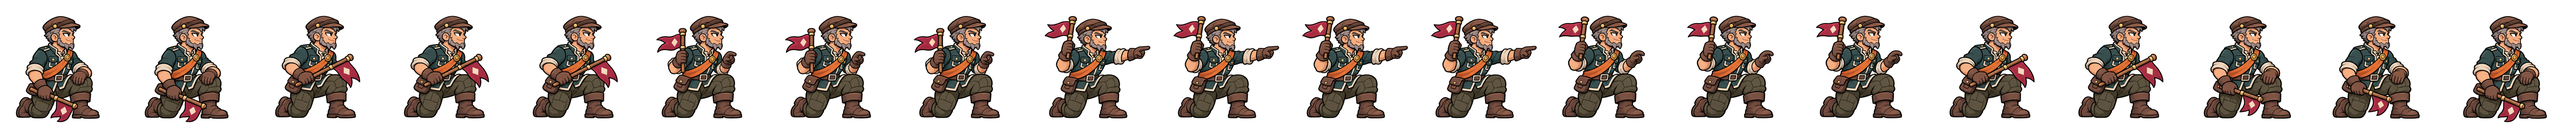
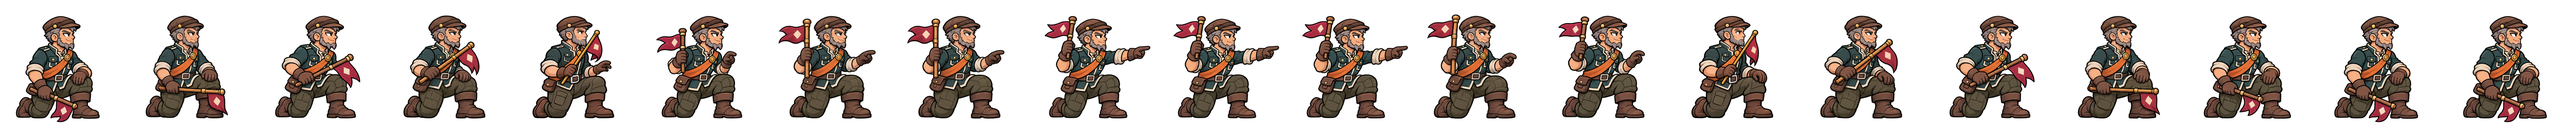
Add eight in-betweens to the observer flag signal

diff --git a/design/Visuels_Boutique_Observateur.md b/design/Visuels_Boutique_Observateur.md
@@ -16,10 +16,12 @@ Dessin réalisé avec le générateur intégré. La Sentinelle a servi de réfé
 
 ## Signal au fanion
 
-En garde, l’éclaireur reste à genou, fanion bas et main libre posée sur le genou. Il relève le fanion, se tourne légèrement et désigne l’ennemi. Le losange se dévoile au premier geste pointé à 0,32 s. Le fanion revient en garde et le losange reste sur la cible marquée. Six dessins entiers, 20 images sur 0,80 s. Hauteur de 59 px hors fanion.
+En garde, l’éclaireur reste à genou, fanion bas et main libre posée sur le genou. Il relève le fanion, se tourne légèrement et désigne l’ennemi. Le losange se dévoile au premier geste pointé à 0,32 s. Le fanion revient en garde et le losange reste sur la cible marquée. Les six dessins du premier essai sont conservés. Huit intermédiaires affinent la montée, le redressement du fanion, l’extension et le retour du bras, puis l’abaissement. 14 dessins distincts sur 20 images et 0,80 s. La pose de signal et le délai de 0,32 s restent ceux du premier essai. Hauteur de 59 px hors fanion.
 
-[Signal en combat](essais/gestes_combat/observateur/Observateur_en_jeu.gif) · [Planche des six poses](essais/gestes_combat/observateur/Planche_observateur.png)
+[Signal en combat](essais/gestes_combat/observateur/Observateur_en_jeu.gif) · [Planche des 14 poses](essais/gestes_combat/observateur/Quatorze_poses_observateur.png)
 
 Le fichier signal.json fixe le délai visuel. La copie d’essai masque la flèche héritée de la famille et retarde le premier affichage du badge de marquage. Les dégâts et le marquage sont appliqués au moment prévu par la simulation. En intégration, conserver les marques déjà affichées, y compris celles issues du bonus Marque du chasseur. Dix marquages vérifiés sur la mission 94 v0.233, à gauche et à droite, ×1 et ×2 avec pause. 48 dossiers valides, 189 contrôles d’animation et 77 des effets réussis. Avis du porteur attendu.
 
 Consignes au générateur d’images intégré. Reprendre le même éclaireur à genou, veste bleu pétrole, écharpe orange, casquette brune et barbe grise. Garder les appuis au sol et le fanion cerise à losange dans la même main. Décomposer le fanion bas, l’armé, le signal avec le doigt de la main libre, puis le retour.
+
+Pour les intermédiaires, les planches données au générateur intégré fixent la garde, l’armé et le signal. Les nouveaux dessins reprennent les mêmes appuis, avec la hampe droite dans la même main et un passage par une inclinaison avant la verticale. Le bras libre se prépare à pointer, se replie puis revient au genou. Les dessins tentés avec un fanion trop haut ont été écartés.

diff --git a/PASSATION.md b/PASSATION.md
@@ -4,7 +4,7 @@ Mettre ce fichier à jour à chaque fin de mission ou changement d'agent (voir `
 
 ## État au 14 novembre 2026 — Codex
 
-**21 novembre — Éclaireur-observateur, type 31.** Essai de garde à genou et signal au fanion à 0,32 s, avec le losange lié à la cible. Dix marquages en mission 94 v0.233, dans les deux sens à ×1 et ×2 avec pause. 48 dossiers valides, 189 contrôles d’animation et 77 des effets réussis. [Capture et repères](design/Visuels_Boutique_Observateur.md#signal-au-fanion). Avis du porteur attendu.
+**21 novembre — Éclaireur-observateur, type 31.** Signal au fanion à 0,32 s. Le porteur a retenu le geste et demandé davantage de fluidité. Huit dessins intermédiaires ajoutés, 14 poses distinctes au total. Dix marquages en mission 94 v0.233, dans les deux sens à ×1 et ×2 avec pause. 48 dossiers valides, 189 contrôles d’animation et 77 des effets réussis. [Capture et repères](design/Visuels_Boutique_Observateur.md#signal-au-fanion). Avis du porteur attendu.
 
 **21 novembre — Mage de givre, type 30.** Essai en huit dessins entiers, formation et départ du même éclat à 0,36 s. Dix tirs en mission 94 v0.233 dans les deux sens à ×1 et ×2 avec pause. Le ralentissement est appliqué dans la simulation. 47 dossiers valides, 188 contrôles d’animation et 77 des effets réussis. Le porteur a validé le geste de référence. Deux visées ajoutées, −32° et +22°. 18 tirs sur les missions 93 et 94, pause et ralentissement vérifiés. [Captures des trois visées](design/Visuels_Boutique_Mage_Givre.md#trois-inclinaisons-de-tir). Le porteur a donné son feu vert pour poursuivre. Lot 43b95a7 prêt à intégrer.
 

diff --git a/TODO_VISUELS.md b/TODO_VISUELS.md
@@ -86,7 +86,7 @@ Format : une case par tâche, avec le contexte (mission, unité, écran), ce qui
 
 - [x] **Fantassin humain, marche** — trois planches de 20 images, quatre diagonales vérifiées à ×1 et ×2 sur Les Coulées Figées. À juger en jeu par le porteur. [Aperçu](design/Visuel_Fantassin_Marche.md).
 
-- [ ] **Éclaireur-observateur, signal** — fanion levé et cible désignée à 0,32 s. [Essai](design/Visuels_Boutique_Observateur.md#signal-au-fanion). Avis sur le geste et le losange.
+- [ ] **Éclaireur-observateur, signal** — fanion levé et cible désignée à 0,32 s. [Essai](design/Visuels_Boutique_Observateur.md#signal-au-fanion). 14 dessins distincts. Avis sur les transitions ajouté après retour du porteur.
 - [x] **Mage de givre, attaque** — trois inclinaisons, cristal synchronisé à 0,36 s, départ par pose. [Captures](design/Visuels_Boutique_Mage_Givre.md#trois-inclinaisons-de-tir). Lot 43b95a7 prêt à intégrer.
 - [x] **Sarbacane gobeline, attaque** — trois inclinaisons, départ à 0,24 s et repères du tube par vue. [Essai en jeu](design/Visuels_Boutique_Sarbacane.md#trois-inclinaisons-de-tir). Lot 112ffcd prêt à intégrer.
 - [x] **Lanceur de masse orc, attaque** — cinq inclinaisons en poses entières et lâcher à 0,56 s. Lot 5238ec8 validé pour cette version, à intégrer. [Captures et contrôles](design/Visuels_Boutique_Lanceur_Masse.md#cinq-inclinaisons-en-poses-entières).
